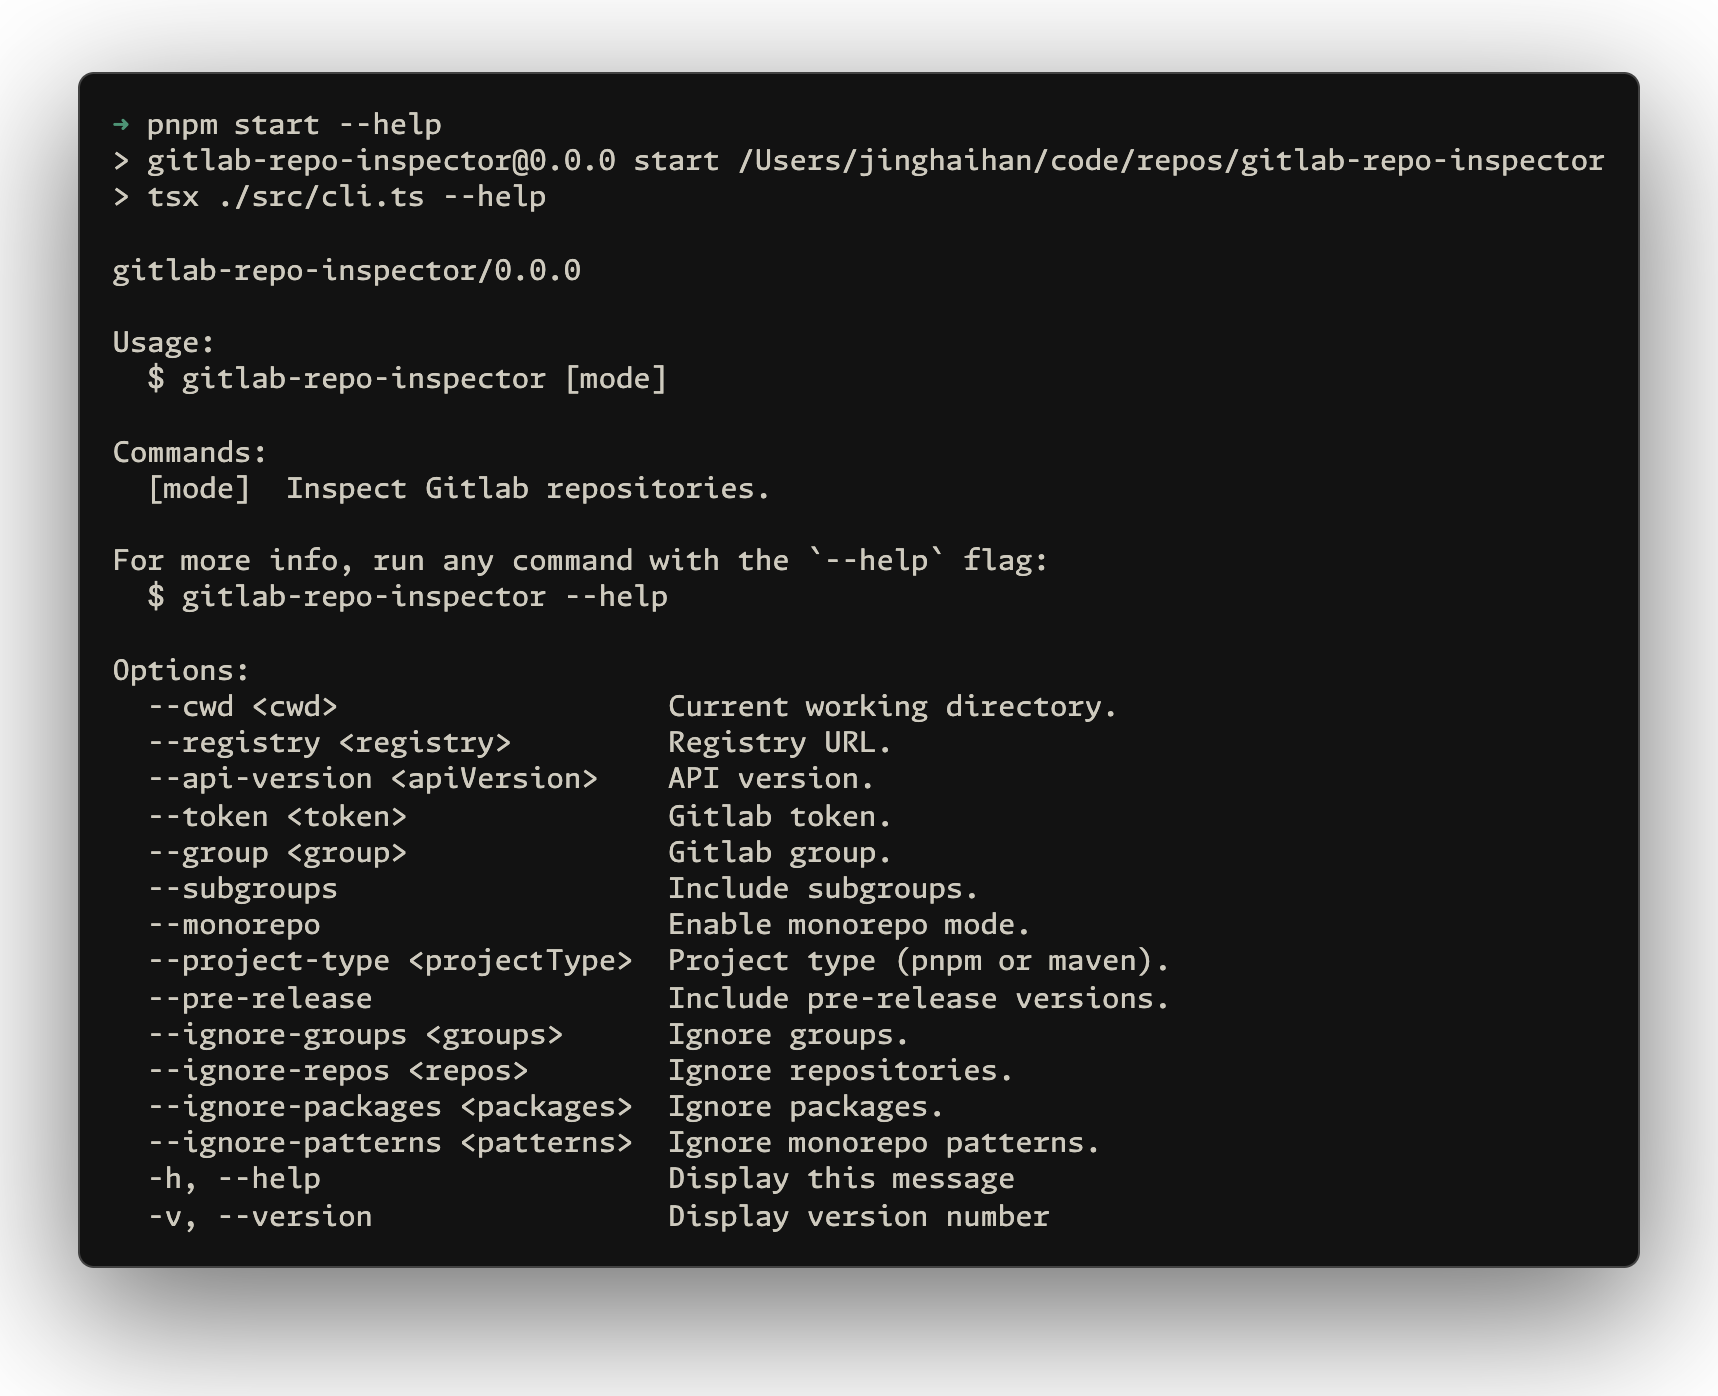
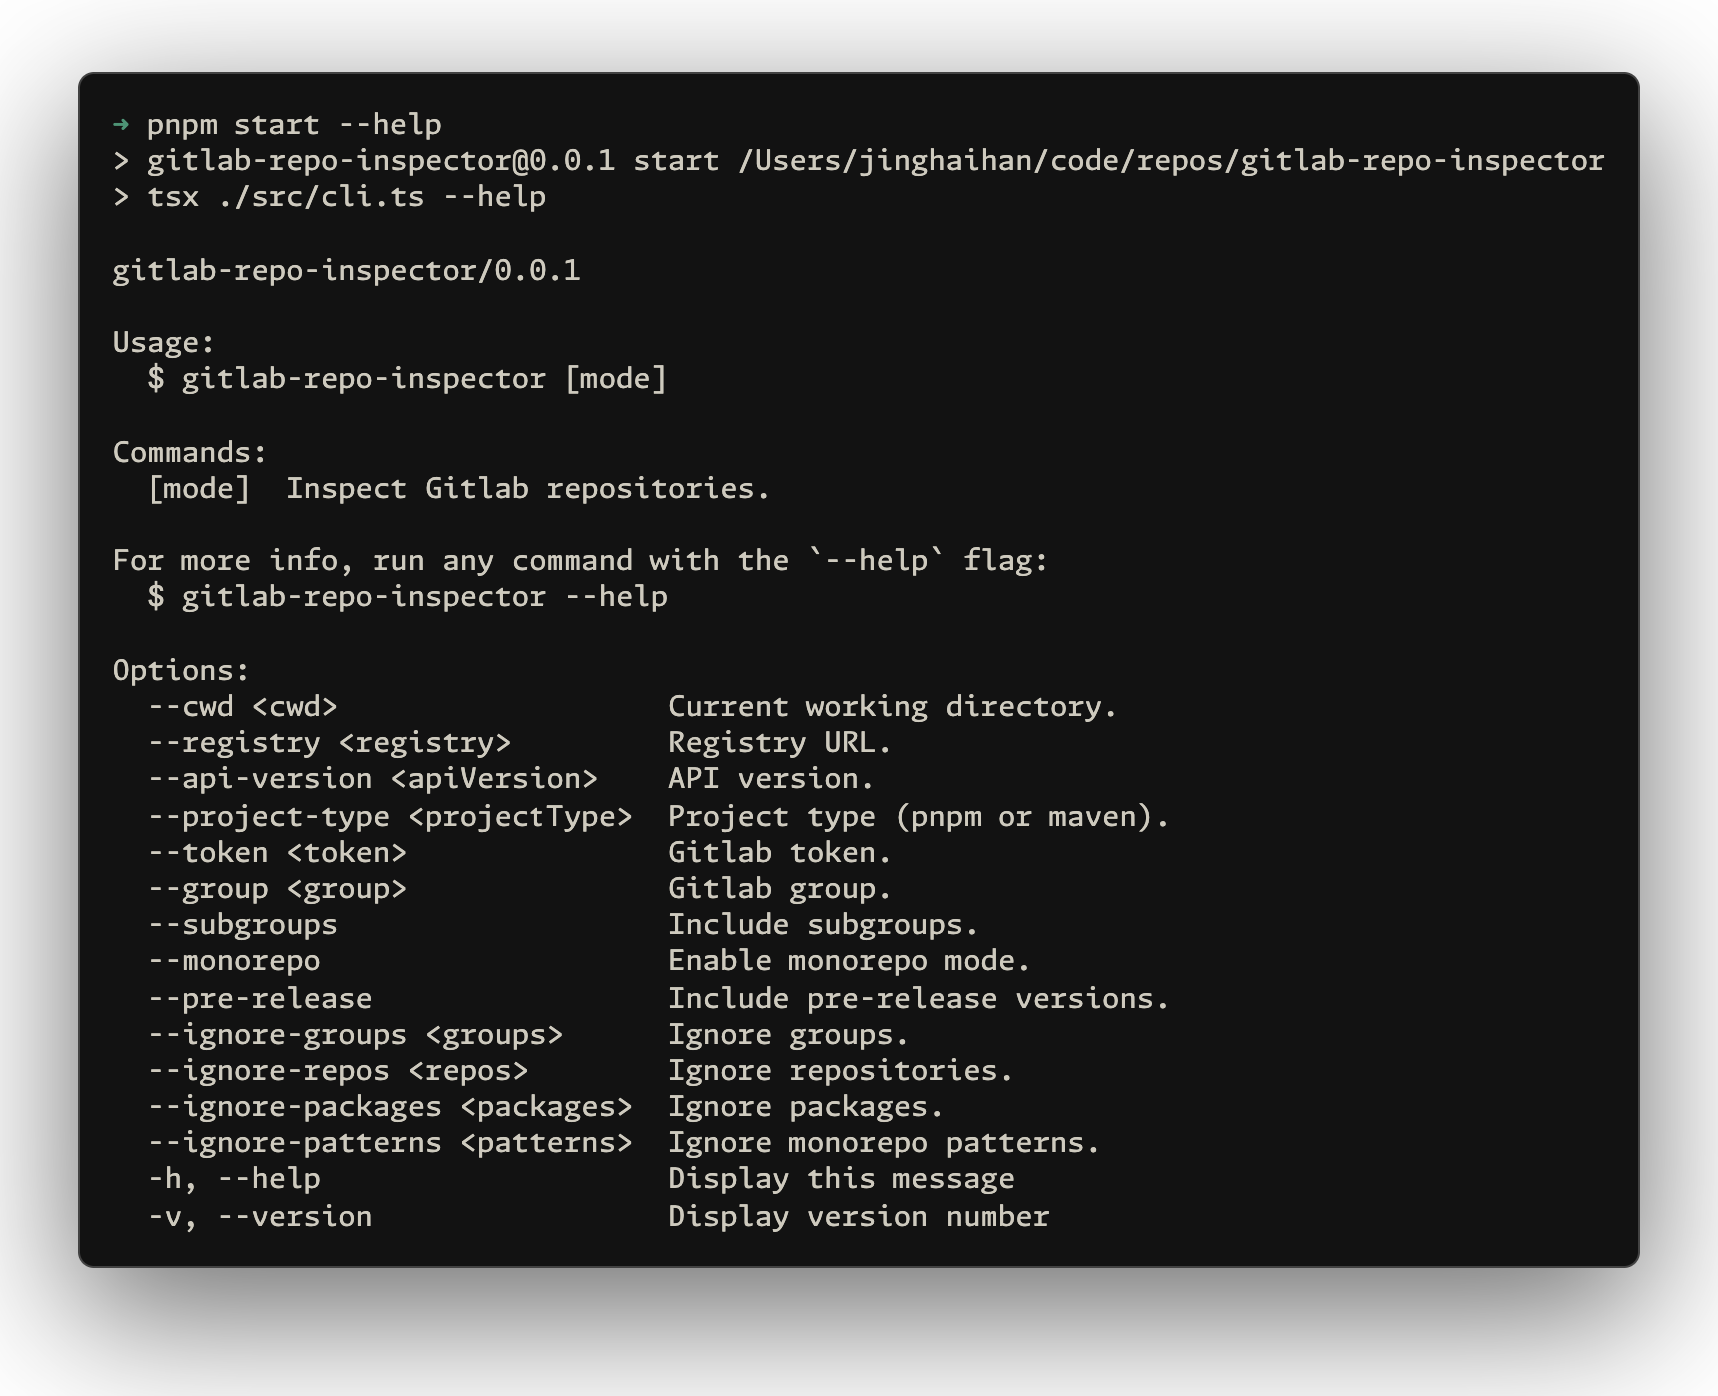
chore: update pnpm version

diff --git a/src/cli.ts b/src/cli.ts
@@ -18,11 +18,11 @@ try {
     .option('--cwd <cwd>', 'Current working directory.')
     .option('--registry <registry>', 'Registry URL.')
     .option('--api-version <apiVersion>', 'API version.')
+    .option('--project-type <projectType>', 'Project type (pnpm or maven).')
     .option('--token <token>', 'Gitlab token.')
     .option('--group <group>', 'Gitlab group.')
     .option('--subgroups', 'Include subgroups.')
     .option('--monorepo', 'Enable monorepo mode.')
-    .option('--project-type <projectType>', 'Project type (pnpm or maven).')
     .option('--pre-release', 'Include pre-release versions.')
     .option('--ignore-groups <groups>', 'Ignore groups.')
     .option('--ignore-repos <repos>', 'Ignore repositories.')

diff --git a/src/types.ts b/src/types.ts
@@ -17,8 +17,8 @@ export interface CommandOptions {
   cwd?: string
   registry?: string
   apiVersion?: string
-  token?: string
   projectType?: ProjectType
+  token?: string
   group?: string
   subgroups?: boolean
   monorepo?: boolean

diff --git a/test/index.test.ts b/test/index.test.ts
@@ -1,0 +1,5 @@
+import { expect, it } from 'vitest'
+
+it('should work', () => {
+  expect(true).toBe(true)
+})
